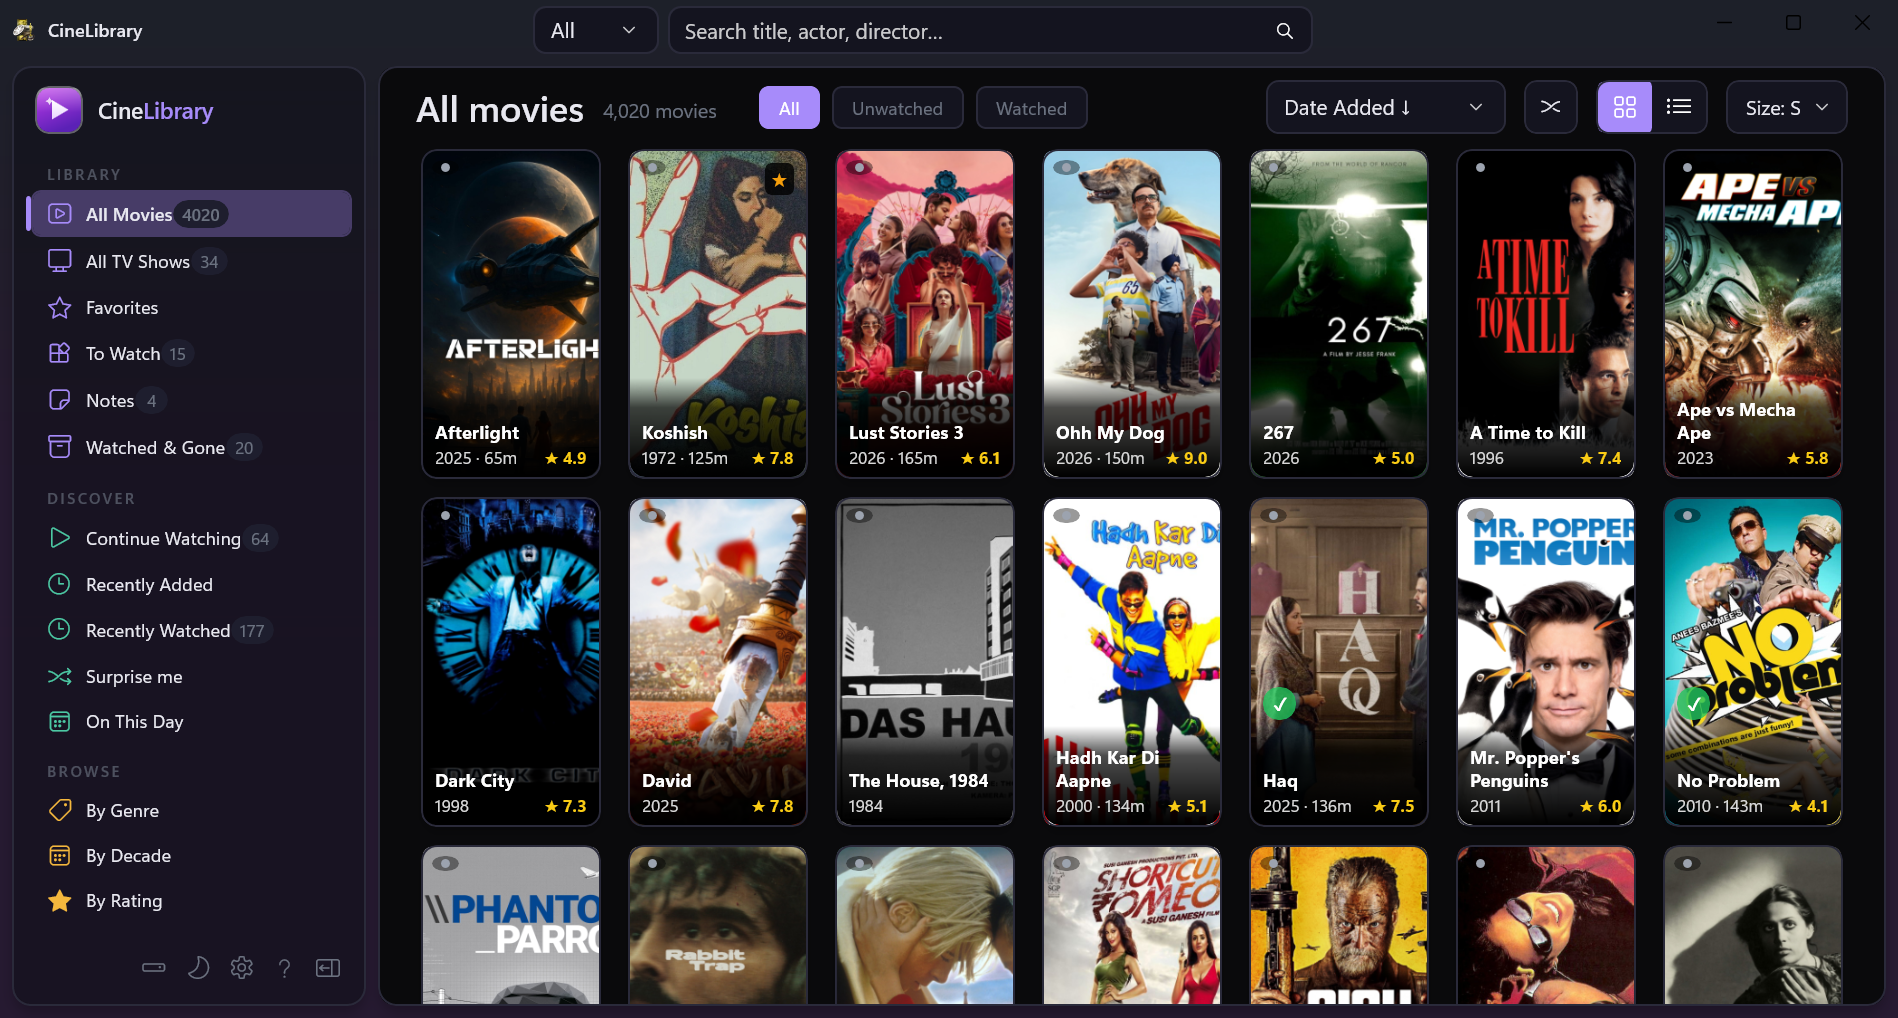
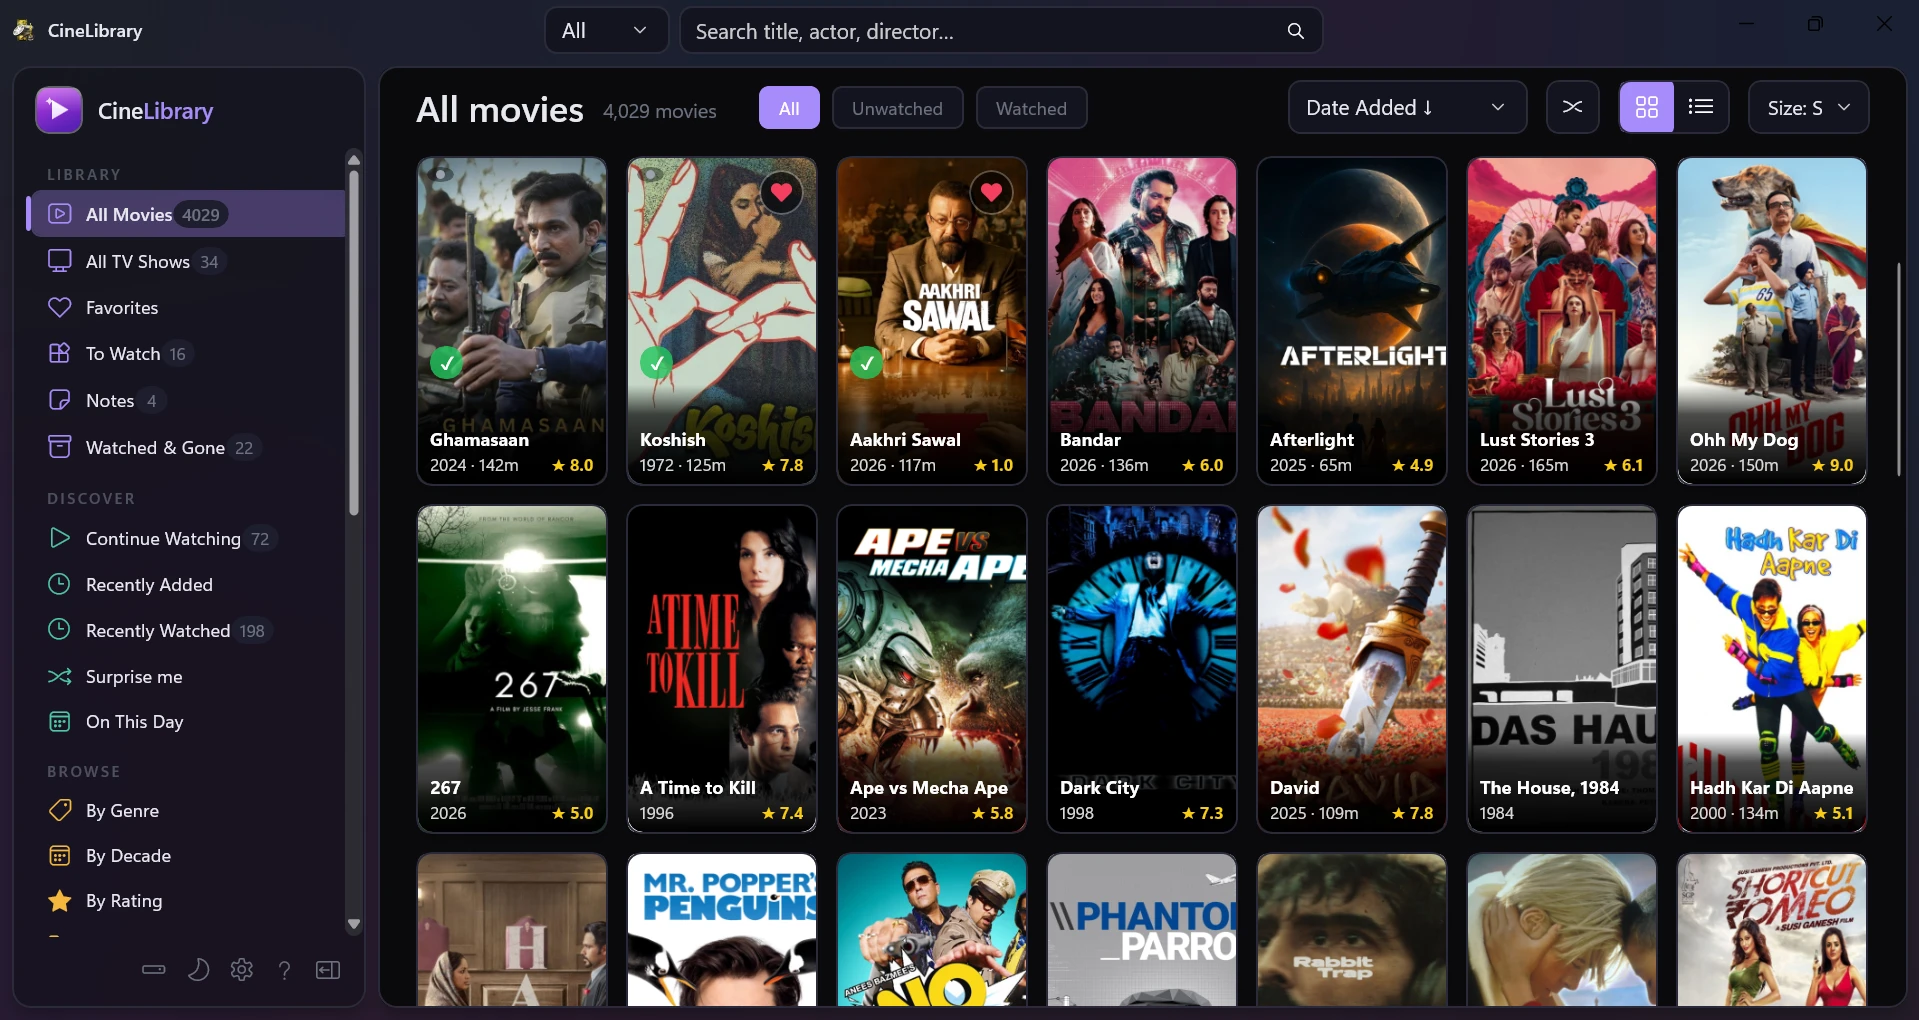
Update screenshots for 4.5.0 (heart for Favorites, new show page)

diff --git a/README.md b/README.md
@@ -50,7 +50,7 @@ Your whole collection at a glance: the sidebar, the search, and every filter and
 
 📺 **TV shows get a page of their own**: the fanart, the cast with photos, the drive the show is on, and Fetch missing info from TMDB.
 
-<img width="760" alt="A TV show page in CineLibrary: the Breaking Bad fanart banner with IMDb and TMDb buttons, the poster, details, the drive it is on, buttons and cast photo cards" src="docs/images/cinelibrary-tv-show.png" />
+<img width="760" alt="A TV show page in CineLibrary: The Family Man fanart banner with IMDb and TMDb buttons, the poster, details, the drive it is on, Play next and the other buttons, and cast photo cards" src="docs/images/cinelibrary-tv-show.png" />
 
 ---
 
